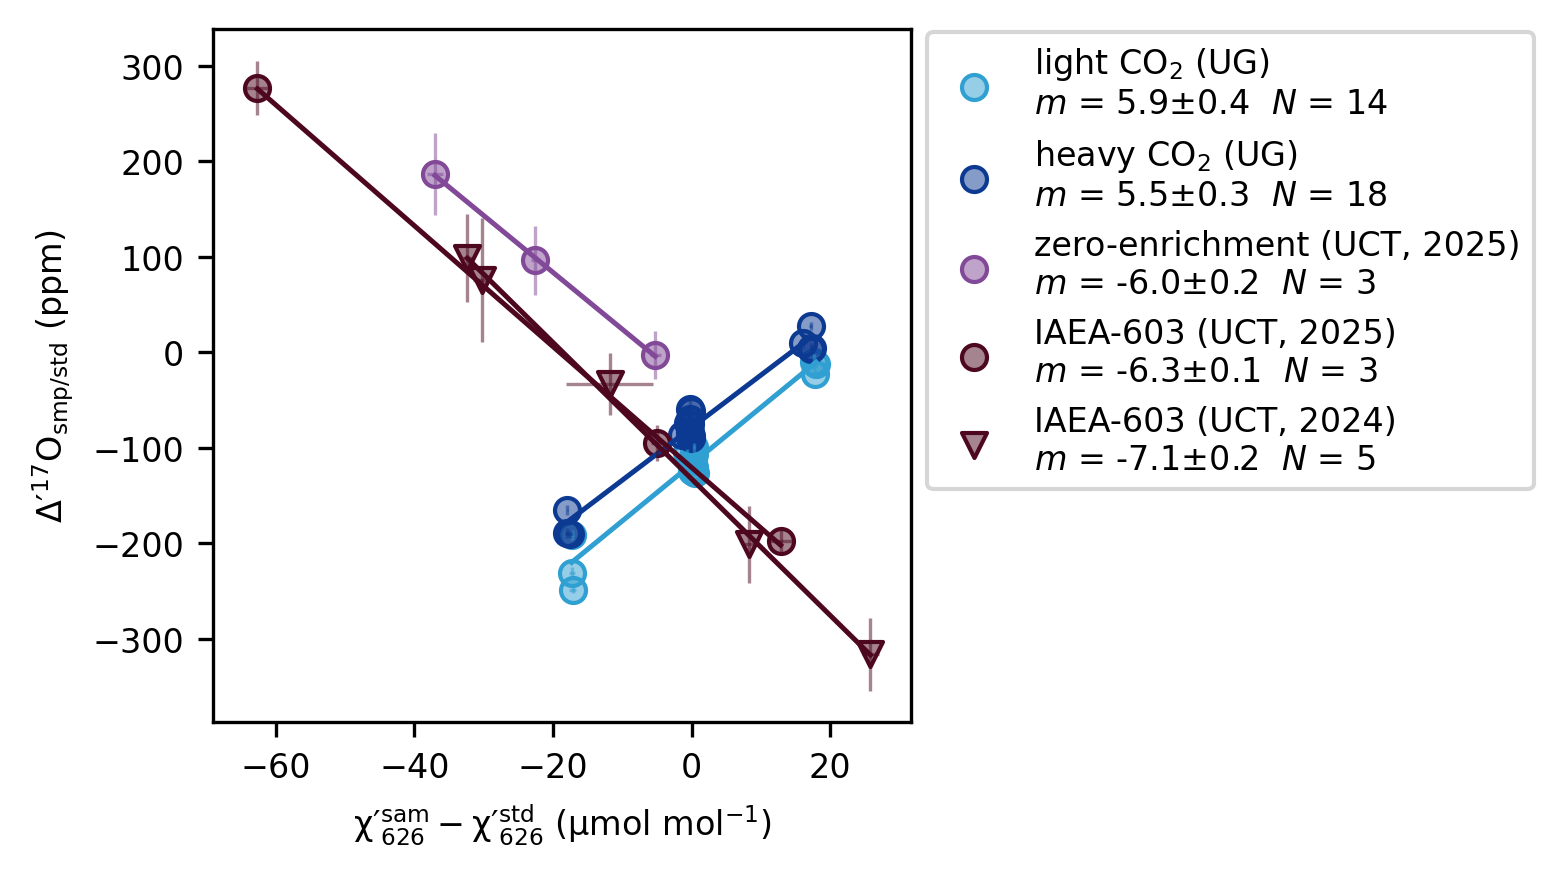
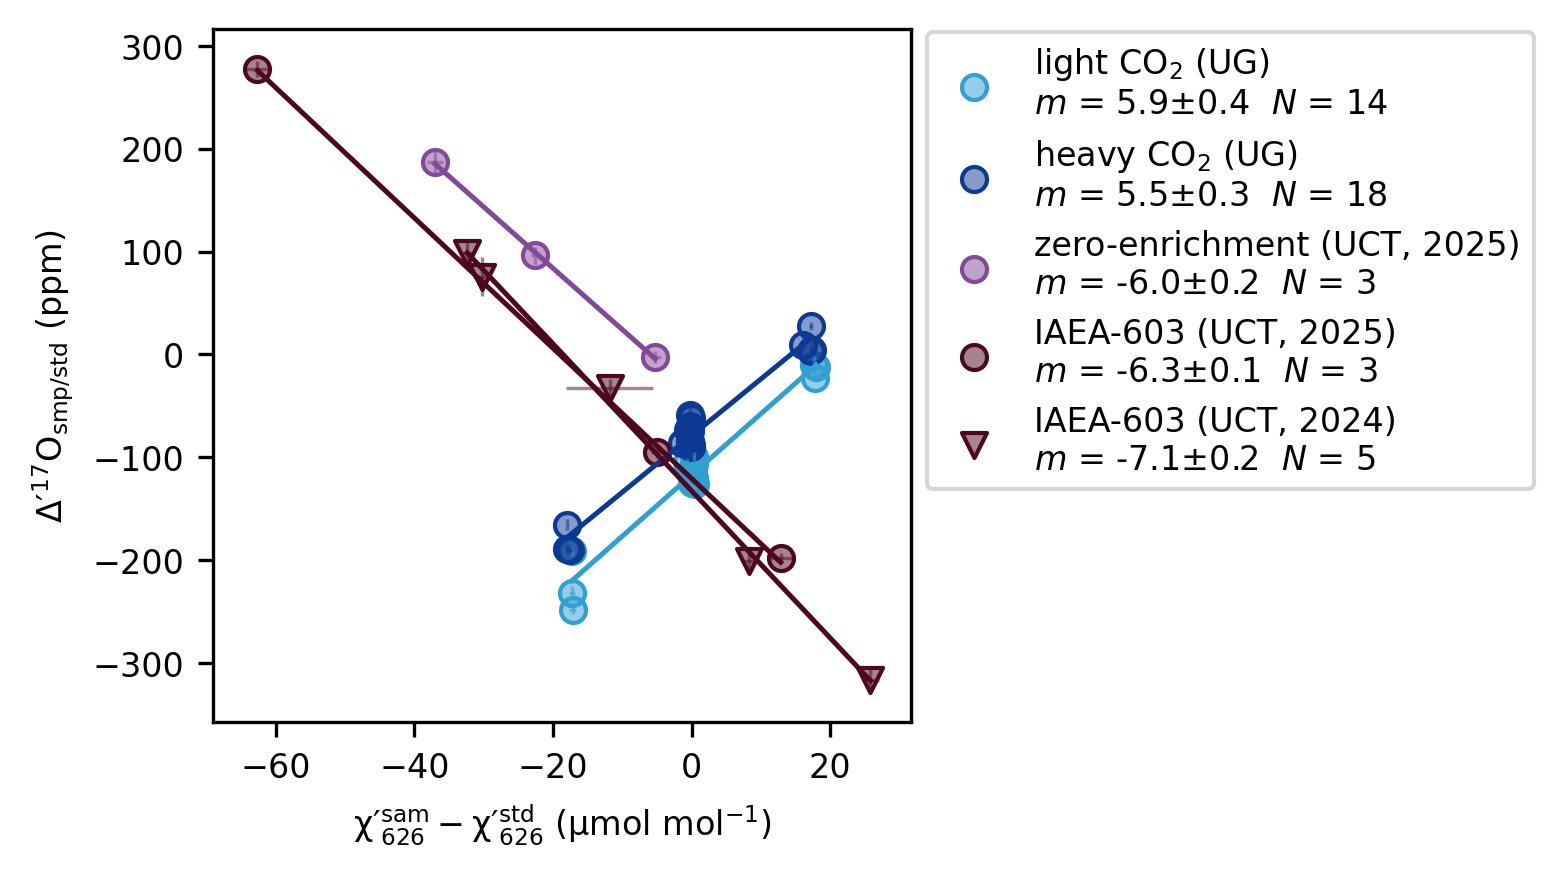
before tea

diff --git a/codes/LT 4 concentration.py b/codes/LT 4 concentration.py
@@ -47,7 +47,7 @@ df_uct = pd.read_csv(os.path.join(data_dir, "LT_Table_S3.csv"))
 df_uct['pCO2Mismatch'] = df_uct['Xp626_L2_mean']/1000 - 421
 df_uct['pCO2Mismatch_error'] = df_uct['Xp626_L2_std']/1000
 df_uct["Dp17O"] = df_uct['Dp17O_raw_mean']*1000
-df_uct["Dp17OError"] = df_uct['Dp17O_raw_std']*1000
+df_uct["Dp17OError"] = (df_uct['Dp17O_raw_std']*1000)/ np.sqrt(df_uct['NumCycles'])
 df_uct_zero_2025 = df_uct[df_uct['SampleName'].str.contains("ZERO") & (df_uct['Session'] == 2025)].copy()
 df_uct_603_2024 = df_uct[df_uct['SampleName'].str.contains("603") & (df_uct['Session'] == 2024)].copy()
 df_uct_603_2025 = df_uct[df_uct['SampleName'].str.contains("603") & (df_uct['Session'] == 2025)].copy()

diff --git a/README.md b/README.md
@@ -12,8 +12,8 @@ This paper is currently being prepared for submission. A preprint will be availa
 
 - **Table S2**  
   Long-term replicate-level measurement data from University of Cape Town  
-  *Used in*: [Figure 2](figures/LT_Figure_2.png), [Figure 4](figures/LT_Figure_4.png), [Figure 6](figures/LT_Figure_6.png), [Figure 9](figures/LT_Figure_9.png)
-
+  *Used in*: [Figure 2](figures/LT_Figure_2.png), [Figure 4](figures/LT_Figure_4.png), [Figure 6](figures/LT_Figure_6.png), [Figure 9](figures/LT_Figure_9.png). Note that this table includes replicate measurements deemed inaccurate due to potential hardware malfunctions; these replicates are listed in the Python code and are excluded from the figures.
+  
 - **Table S3**  
   Replicate-level measurement data for the concentration experiments from University of Cape Town  
   *Used in*: [Figure 3](figures/LT_Figure_3.png)
